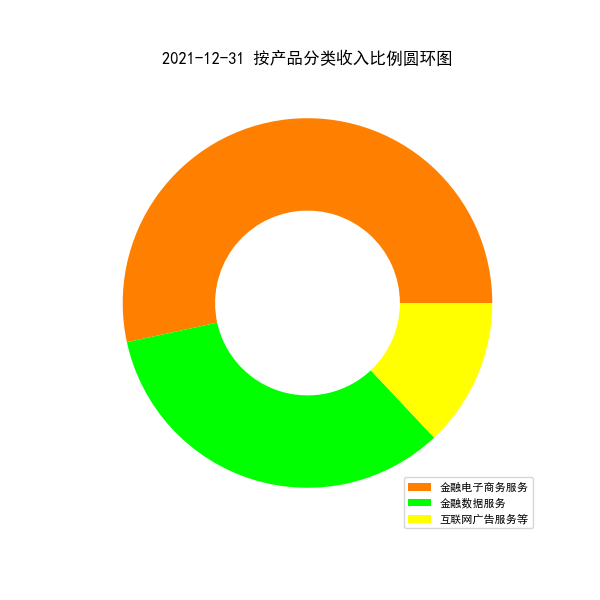
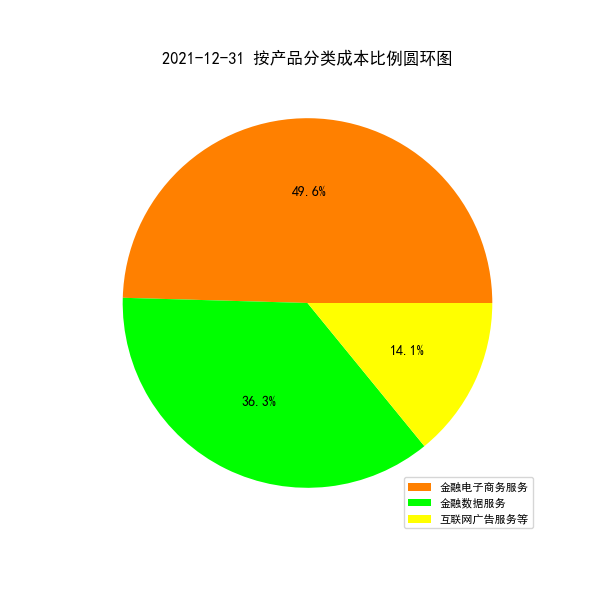
renew pic

Changed region(s): [[0.18, 0.3, 0.72, 0.75], [0.54, 0.09, 0.63, 0.12]]

diff --git a/donut_chart.py b/donut_chart.py
@@ -1,11 +1,11 @@
 import matplotlib.pyplot as plt
 import pandas as pd
 
-df = pd.read_csv('myFinancialWebsite\output.csv')
+df = pd.read_csv('myFinancialWebsite/output.csv')
 
 # Extract the data
-ratio = [float(value[:-1]) for value in df.iloc[33:36, 3]]
-labels = ['金融电子商务服务', '金融数据服务', '互联网广告服务等'] 
+ratio = [float(value[:-1]) for value in df.iloc[25:28, 3]]
+labels = ['金融电子商务服务', '金融数据服务', '互联网广告服务等']
 colors = ['#FF8000', '#00FF00', '#FFFF00']
 
 # Set figure size
@@ -13,13 +13,9 @@ fig = plt.figure(figsize=(6, 6))
 
 # Plot the pie chart without labels
 plt.rcParams['font.sans-serif'] = ['SimHei']
-patches, _ = plt.pie(ratio, colors=colors, wedgeprops={'width': 0.5})
+plt.pie(ratio, colors=colors, autopct='%.1f%%')
 
-# Remove labels
-for patch in patches:
-    plt.gca().text(0, 0, '', ha='center')
-
-plt.title('2021-12-31 按产品分类收入比例圆环图')
-plt.legend(patches, labels, loc='lower right', prop={'size': 8})
-
+# Plot the legend
+plt.legend(labels, loc='lower right', prop={'size': 8})
+plt.title('2021-12-31 按产品分类成本比例圆环图')
 plt.show()

diff --git a/pie_chart.py b/pie_chart.py
@@ -15,7 +15,7 @@ fig = plt.figure(figsize=(6, 6))
 
 # Plot the pie chart with empty labels
 plt.rcParams['font.sans-serif'] = ['SimHei']
-plt.pie(merged_ratio, labels=[''] * len(merged_ratio), colors=colors, autopct='%1.1f%%')
+plt.pie(merged_ratio, colors=colors, autopct='%1.1f%%')
 plt.axis('equal')
 
 # Set the title

diff --git a/tempCodeRunnerFile.py b/tempCodeRunnerFile.py
@@ -1,0 +1,1 @@
+labels=[''] * len(merged_ratio),
